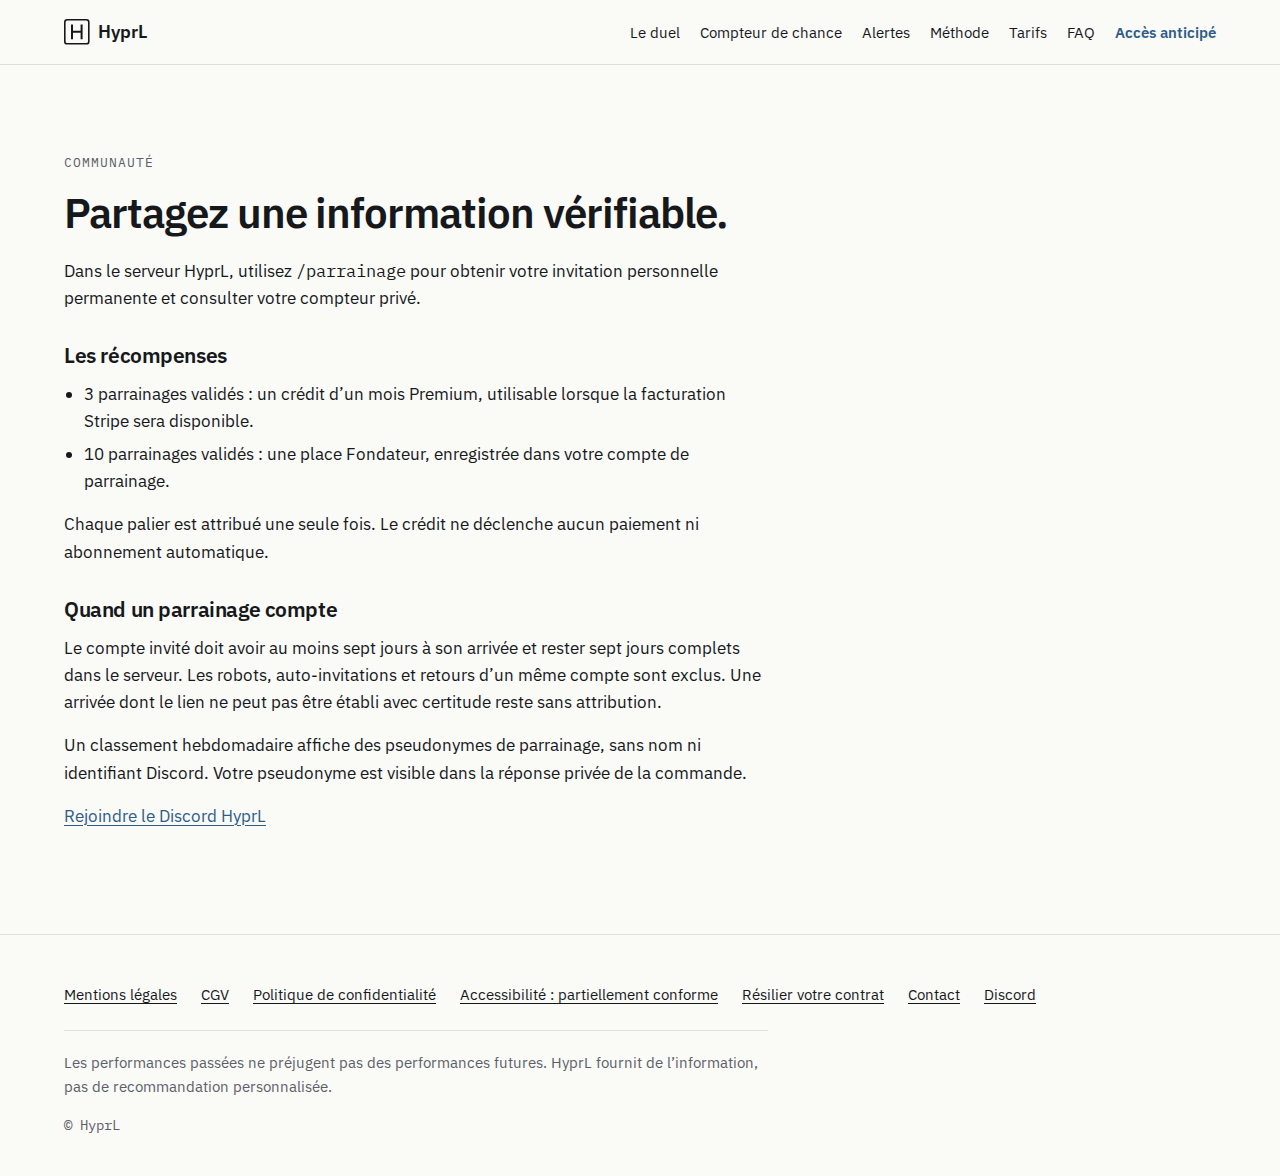
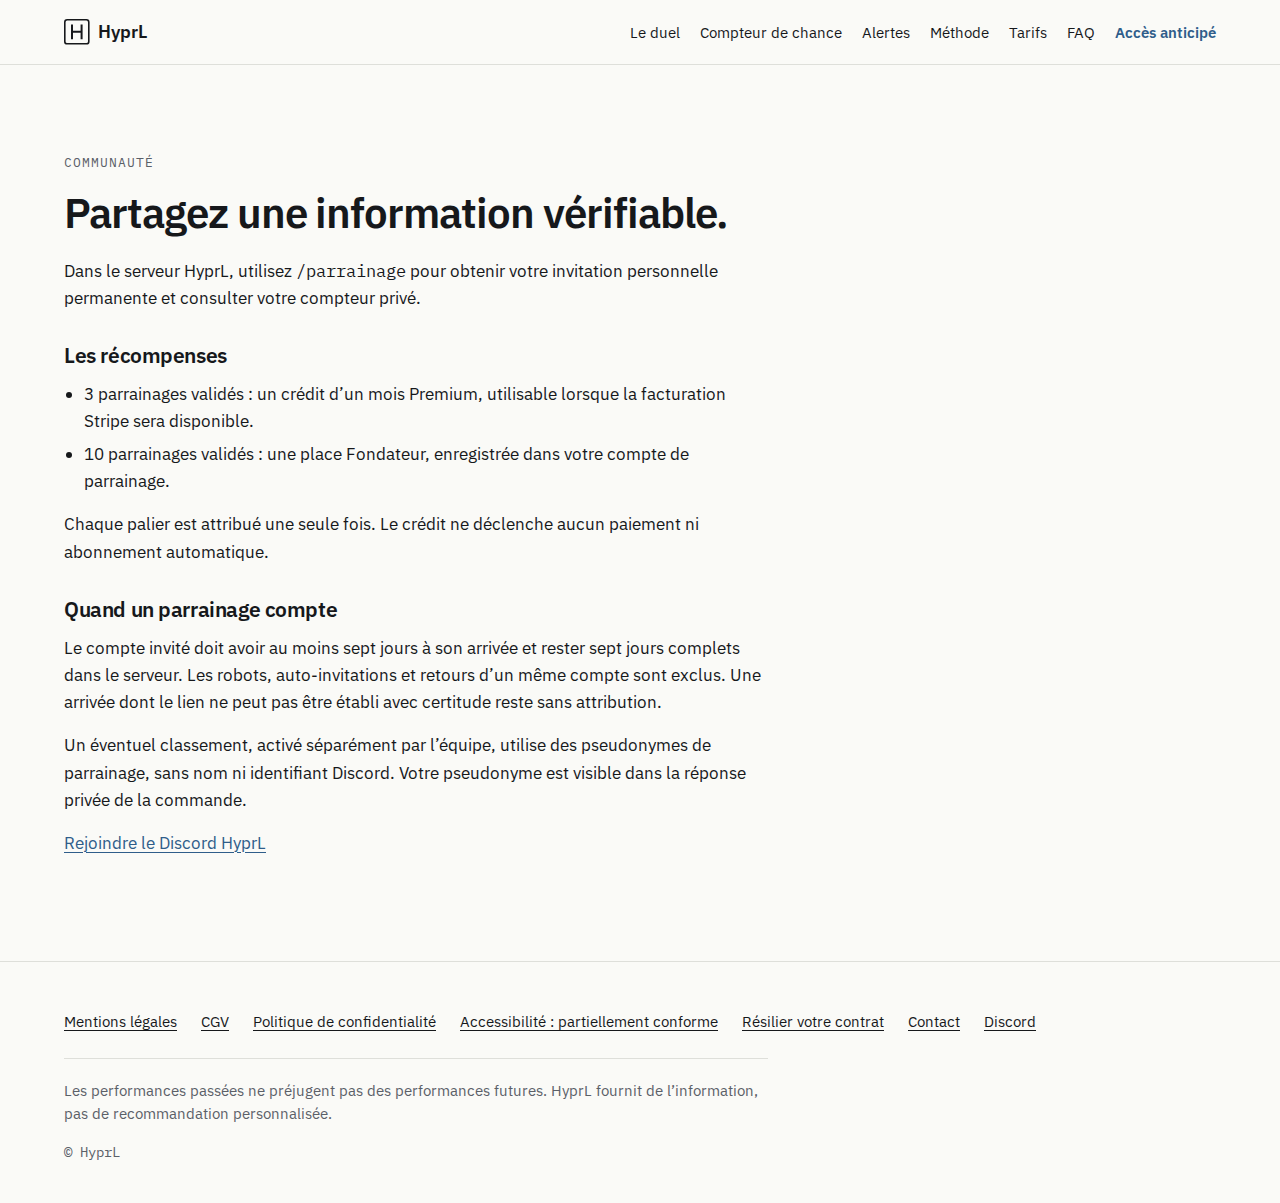
docs(growth): record v2 integration and refreshed browser evidence
Document the existing application identity, quiet referral switches, pinned BTC evidence and code-only release procedure. Refresh synthetic member and newsletter captures and add public-aggregate BTC views without copying production state.

diff --git a/docs/GROWTH_INTEGRATION.md b/docs/GROWTH_INTEGRATION.md
@@ -1,0 +1,94 @@
+# Growth integration onto the member v2 site
+
+The integration starts at member release `1c9ffe4`, brings in the explicit
+producer mapping from `b8bc4bf`, and applies only the growth changes from
+`8359ed4`. It does not merge the older growth branch's unrelated base. No
+member contract, frozen engine, source registry, holdout or trading behavior
+changes. The operator report contains the pinned release commands and rollback.
+
+## Public pages and newsletter
+
+The US earnings calendar reads the existing validated v2 export and refuses
+exports older than 26 hours. Day markers remain unconfirmed, without invented
+publication times. The SEC guide is an explanatory page; it initiates no source
+request. Official links were not fetched during integration.
+
+The completed BTC claim check is at
+`/chance-ou-pas/btc-vendredi-plus-bas-asie`, linked from the index and sitemap.
+It uses price-free public aggregates from study revision
+`98c7189b207e857777e188318b7248e87616ddd1`. The page displays the observed
+251/450 Fridays (55.8%), 58.0% on other days, the 51.2–60.3% Wilson interval,
+paired-week difference interval, p=0.075 and the exploratory limitations.
+Neither a Friday advantage nor the 60% assertion is confirmed. The completed
+article is independent of the daily member export; dynamic claims and earnings
+retain their existing freshness checks. This does not populate the member luck
+counter or rewrite its contract.
+
+Newsletter consent remains an optional unticked box with its own version and
+text, double opt-in, 48-hour hashed confirmation and withdrawal. Opening links
+alone never subscribes or withdraws. Withdrawal preserves early access; general
+deletion removes both. Legacy users are never enrolled. Weekly delivery retains
+durable reservations and never retries uncertain SMTP sends automatically.
+
+`NEWSLETTER_ENABLED` defaults to false. Provider tracking and processing
+attestations remain operator-owned; no agent sets these attestations true.
+Prepare stable private token/worker keys before activation. Only the site process
+writes subscriber state. Install a weekly loopback worker only after the site
+release and provider acceptance; never run another writer on the same file.
+
+## Existing HyprL Discord application
+
+This supersedes the original growth-v1 request for a new application. The user
+unit loads the existing identity environment via `--discord-env` and then a
+separate referral configuration. It uses `DISCORD_BOT_TOKEN` and
+`DISCORD_GUILD_ID`, without copying or changing that identity file. It never
+loads, changes or restarts kyoko-bot.
+
+`setup_hook` upserts only the guild command `/parrainage`. It does not call
+bulk command synchronization, which could remove the application's other
+commands. The reply is ephemeral; invitation creation occurs only on an explicit
+member command. Invite attribution, seven-day eligibility/stay requirements,
+SQLite durability and once-only reward records remain unchanged.
+
+`REFERRAL_ENABLED=false` prevents network startup, including through the unit's
+ExecCondition. `REFERRAL_PUBLISH_LEADERBOARD=false` prevents every public
+leaderboard send, and `REFERRAL_APPLY_REWARDS=false` prevents all role writes.
+These last two switches remain false for this delivery. The ledger can record
+qualified rewards without granting roles; billing credit stays `pending_stripe`.
+No payment integration exists. If roles are enabled later, configure two
+distinct marker roles, below the application role and separate from actual
+paid membership roles. Public posting requires its own later instruction.
+
+Manage Guild is needed to read invitation counters and Create Invite on the
+chosen invitation channel is needed for private command responses. Reward and
+leaderboard permissions are needed only if their separate features are enabled.
+The operator must select the invitation channel; no channel or role is guessed.
+Do not start a second gateway process for this application without checking the
+existing application deployment and its session policy.
+
+## Guarded site release
+
+The source lives in an ordinary agent branch descended from `1c9ffe4`; the
+supplied branch is preserved. Prepare the release with `git archive` from the
+exact reviewed SHA. Install dependencies and run every site test before pruning
+development dependencies. Preserve external state and the live site's legal
+facts. Copy its three unaffected legal pages and use
+`server/growth/merge-privacy.js` to insert only the two new growth sections into
+the existing privacy page. This preserves all live publisher/processor facts;
+an unexpected HTML structure is rejected for review. It copies no private file
+into Git.
+
+Run `node --env-file=... server/growth/release-preflight.js <live-directory>`
+from staging. This read-only command requires loopback production config, member
+v2 enabled, fresh observed v2 member/public exports, external state paths and
+0440 member snapshot permissions. It creates no application/store and sends no
+mail. Confirm the exact source and live/staged code digests again before the
+directory switch, then restart only the site user service. Keep a private receipt
+with the old code directory and new SHA for rollback. Rollback restores only
+code; never restore or copy personal state, deliveries, withdrawals or ledgers.
+
+The site switch remains operator-owned, following the `1c9ffe4` directory-swap
+procedure. Run production OAuth/member acceptance under the operator's network
+policy. Local screenshots use synthetic member/calendar/claim data; the BTC
+article captures use only the pinned already-public aggregates. Browser requests
+outside the isolated loopback servers are blocked.

diff --git a/docs/GROWTH_ENGINE_V1.md b/docs/GROWTH_ENGINE_V1.md
@@ -1,3 +1,5 @@
+> Integration update: see `docs/GROWTH_INTEGRATION.md`. It supersedes the original new-application and no-completed-study assumptions below.
+
 # Growth engine v1 — operator handoff
 
 This branch prepares code and user-service templates. It does not deploy,
@@ -6,7 +8,7 @@ or enable payments. Production activation belongs to the operator.
 
 ## Dedicated Discord referral service
 
-`python -m scripts.growth.discord_bot` runs a **separate Discord application**.
+`python -m scripts.growth.discord_bot` reuses the **existing HyprL Discord application**, as explicitly directed by the operator. It is a separate process and ledger; it never modifies kyoko-bot.
 Install `scripts/growth/requirements.txt` in a dedicated virtual environment.
 Render `scripts/growth/deploy/hyprl-growth-referrals.service.in` with absolute
 release/Python paths, and install it as a **user** unit. Do not edit any existing
@@ -15,7 +17,7 @@ bot, trader, proxy or system unit. Environment example:
 `python -m scripts.growth.render_units --help` describes the offline renderer;
 it writes only the three new growth units to an empty staging directory.
 
-Enable Guild Members intent in this new application's developer settings.
+The existing HyprL application has Guild Members intent enabled. Do not create another application. Its identity environment is loaded separately by the unit via `--discord-env`; never copy or print its token. Registration upserts only `/parrainage`, preserving all other application commands.
 Install with scopes `bot` and `applications.commands`, restricted to the HyprL
 guild. Grant Create Invite on the invitation channel, Manage Guild to read
 invitation counters, View Channel/Send Messages on the leaderboard channel, and

diff --git a/apps/hyprl-site/docs/growth/screenshots/README.md b/apps/hyprl-site/docs/growth/screenshots/README.md
@@ -1,8 +1,10 @@
 # Growth v1 browser evidence
 
-All screenshots use the isolated `test/growth-browser-server.js`, synthetic
-DEMO events and an explicitly synthetic claim. No production store or recipient
-is read. These images are documentation, never served as product results.
+All screenshots use the isolated `test/growth-browser-server.js`. Calendar,
+member and sample claim data are synthetic. The three `btc-study-public-*`
+captures show only the already-public aggregate study pinned at revision
+`98c7189`. No production store or recipient is read. These images are
+documentation, never served as product results.
 
 Reproduce from the site directory after `npm ci` and installing the QA requirements:
 
@@ -16,7 +18,8 @@ PYTHONPATH=.qa-deps python "$SKILLS_LIB/webapp-testing/scripts/with_server.py" \
 The audit blocks every non-loopback request, checks empty visitor storage,
 JSON-LD/canonicals, light/dark pages, a 320 px viewport, keyboard menu, the
 unticked optional checkbox, native signup, double opt-in and withdrawal.
-Thirteen WCAG A/AA axe checks are automated evidence, not a complete RGAA audit.
+Sixteen WCAG A/AA axe checks are automated evidence, not a complete RGAA audit.
 
-Nine captures: calendar light/dark/mobile; claim index and article; SEC guide;
-referral rules; unticked newsletter form; confirmed newsletter signup.
+Twelve captures: calendar light/dark/mobile; claim index and sample article; SEC
+guide; referral rules; unticked newsletter form; confirmed newsletter signup;
+the public BTC study light/dark/mobile.
